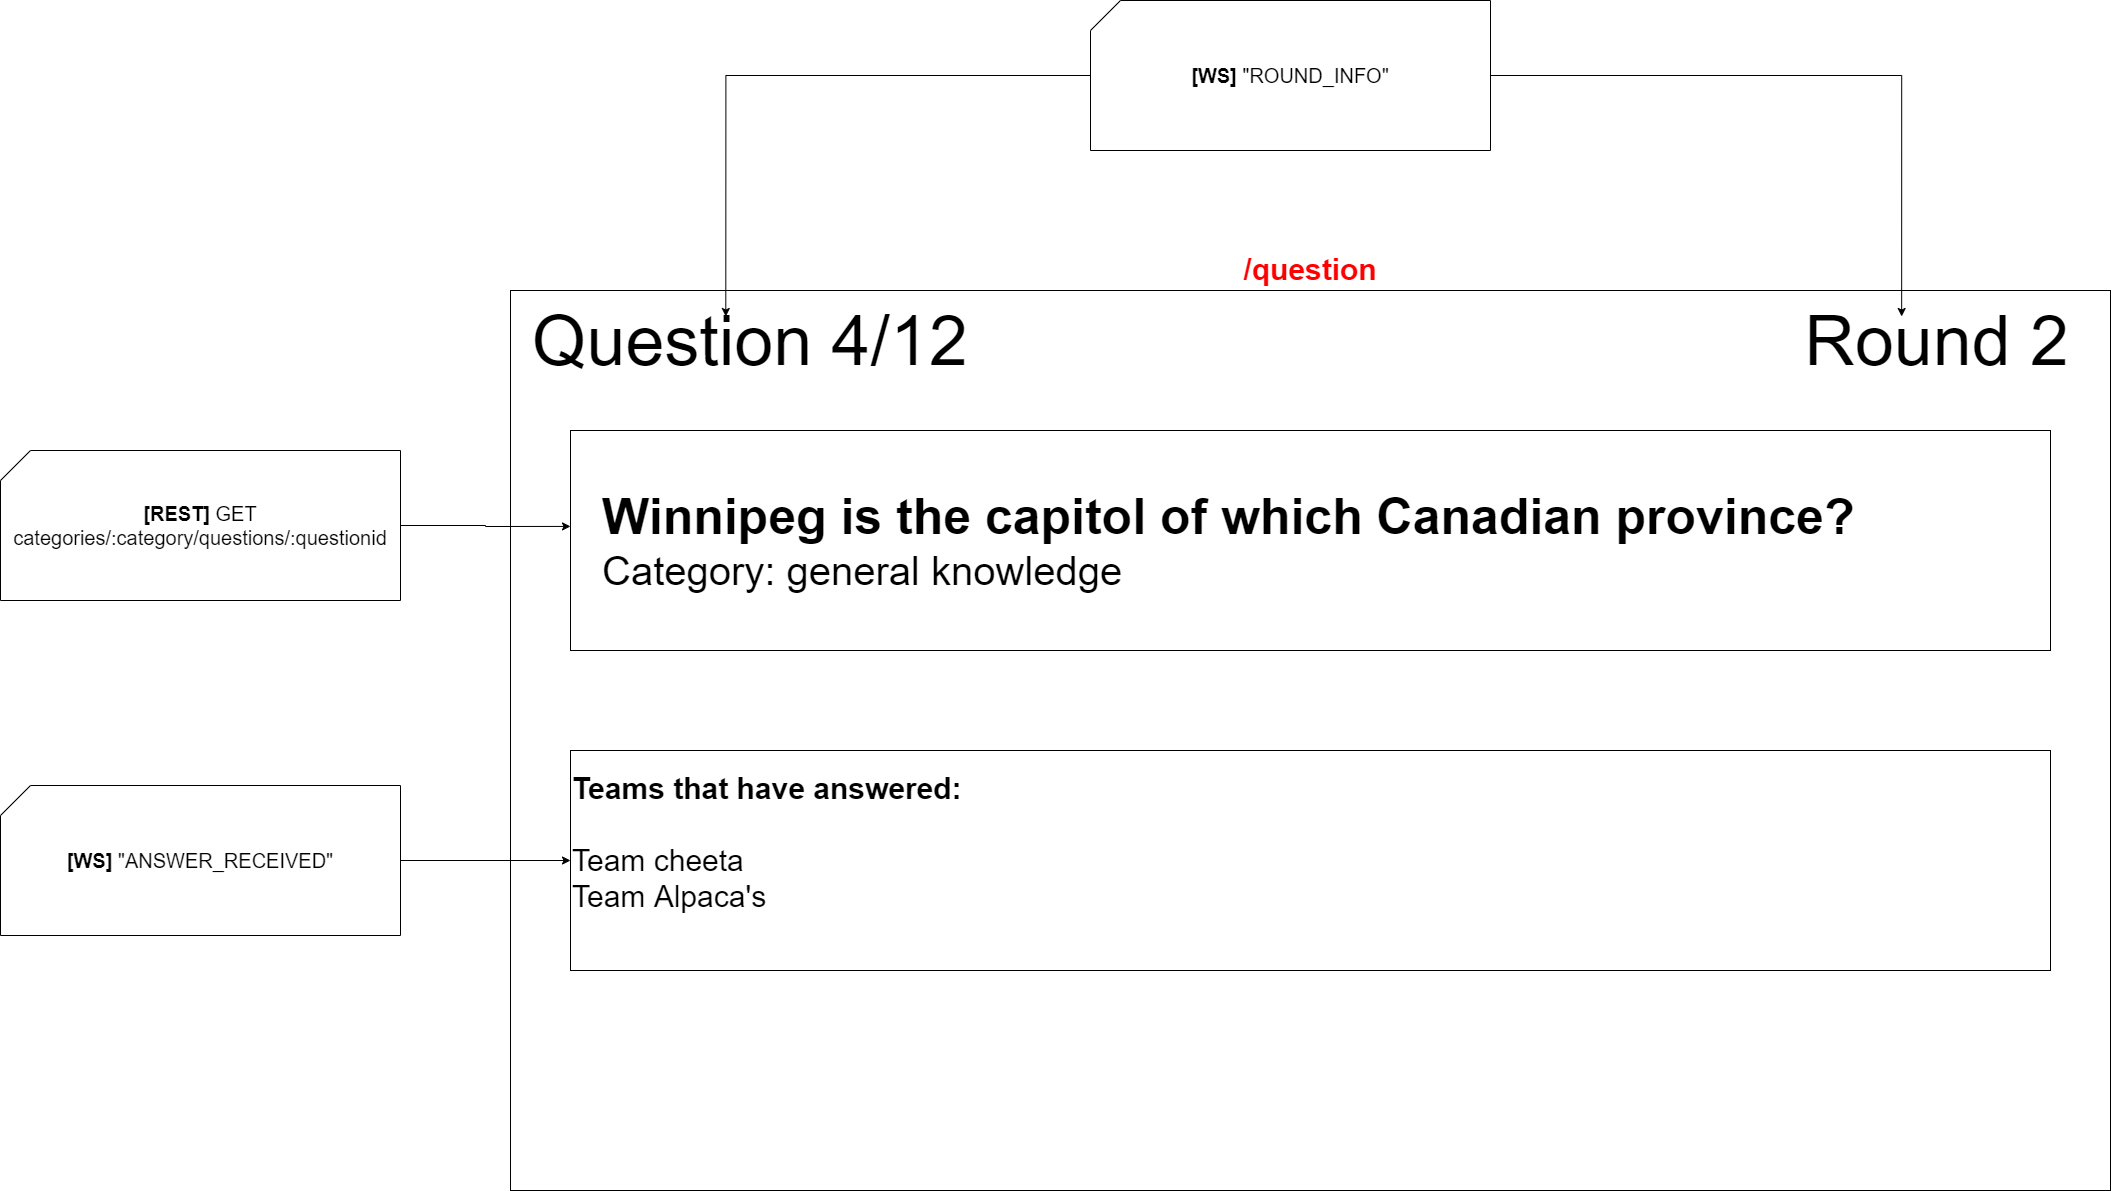
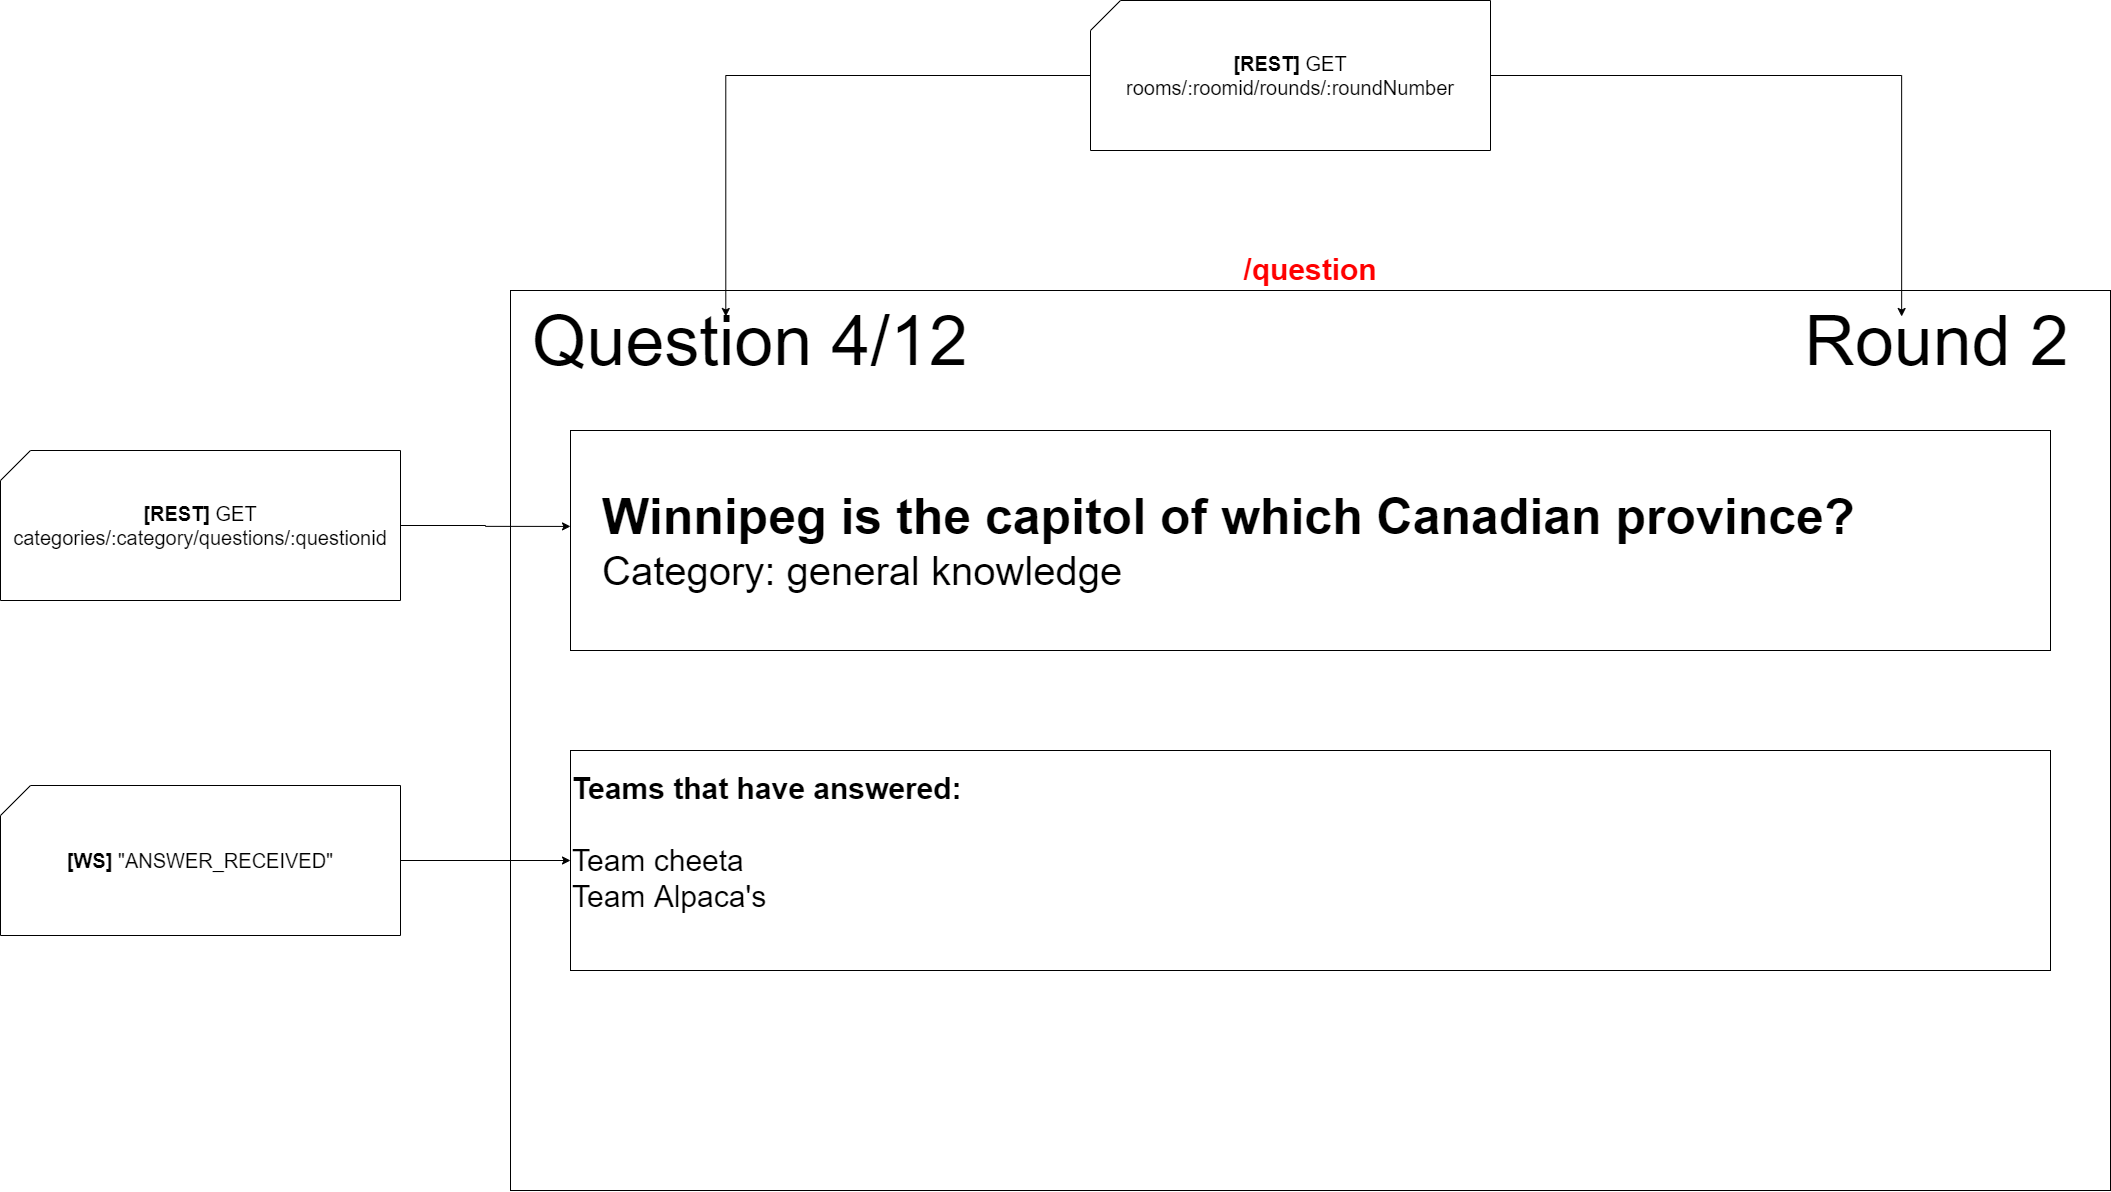
Update WS round_info to REST-api request

diff --git a/docs/rest-api.md b/docs/rest-api.md
@@ -1,11 +1,12 @@
 # REST API
 In this file you can see all the requests for the quizzer-server.
 
+- [Rounds](#rounds)
 - [Questions](#questions)
 - [Teams](#teams)
 
-## Rooms
 
+### Rounds
 ---
 
 **`POST`** `/api/v1/rooms`
@@ -15,38 +16,6 @@ Create a new room.
 | Parameters    | Return  as JSON           |
 |---------------|---------------------------|
 | None          | ``roomid: String``       |
-
----
-
-**`PUT`** `/api/v1/rooms/:roomid/teams/:teamid`
-
-Approve a new team, setting ``isApproved`` Boolean to true.
-
-| Parameters    | Return as JSON            |
-|---------------|---------------------------|
-| ``roomid``    | None                      |
-| ``teamid``    | None                      |
-
----
-
-**`DELETE`** `/api/v1/rooms/:roomid/teams/:teamid`
-
-Disapprove a team, setting ``isApproved`` Boolean to false.
-
-| Parameters    | Return as JSON            |
-|---------------|---------------------------|
-| ``roomid``    |                           |
-| ``teamid``    |                           |
-
----
-
-**`GET`** `/api/v1/categories`
-
-Get all categories.
-
-| Parameters    | Return as JSON            |
-|---------------|---------------------------|
-| None          | ``{ categories }``        |
 
 ---
 
@@ -60,6 +29,42 @@ Create a new round with the 3 selected categories.
 
 ---
 
+**`POST`** `/api/v1/rooms/:roomid/rounds/:roundNumber/"`
+
+Add a new question to a round.
+
+| Parameters    | Send in body              | Return as JSON            |
+|---------------|---------------------------|---------------------------|
+| roomid        | ``questionid: Number``    |                           |
+| roundNumber   |                           |                           |
+
+
+**`GET`** `/api/v1/rooms/:roomid/rounds/:roundNumber"`
+
+Get all info for a round, including how many questions are left, which round they are in and how many teams there are.
+
+| Parameters    | Send in body              | Return as JSON            |
+|---------------|---------------------------|---------------------------|
+| roomid        |                           | ``question: Number``      |
+| roundNumber   |                           | ``round: Number``         |
+|               |                           | ``teams: Number``         |
+
+---
+
+## Questions
+
+---
+
+**`GET`** `/api/v1/categories`
+
+Get all categories.
+
+| Parameters    | Return as JSON            |
+|---------------|---------------------------|
+| None          | ``{ categories }``        |
+
+---
+
 **`GET`** `/api/v1/categories/:category/questions/:questionid"`
 
 Get a question and answer.
@@ -69,16 +74,9 @@ Get a question and answer.
 | category      |                           | ``question: String``      |
 | questionid    |                           | ``answer: String``        |
 
----
+--- 
 
-**`POST`** `/api/v1/rooms/:roomid/rounds/:roundNumber/"`
-
-Add a new question to a round.
-
-| Parameters    | Send in body              | Return as JSON            |
-|---------------|---------------------------|---------------------------|
-| roomid        | ``questionid: Number``    |                           |
-| roundNumber   |                           |                           |
+## Teams
 
 ---
 
@@ -134,5 +132,28 @@ Create a new (unapproved) team
 | Parameters    | Send in body              | Return as JSON                  |
 |---------------|---------------------------|---------------------------------|
 | roomid        | ``teamName: String``      |                                 |
+
+---
+
+
+**`PUT`** `/api/v1/rooms/:roomid/teams/:teamid`
+
+Approve a new team, setting ``isApproved`` Boolean to true.
+
+| Parameters    | Return as JSON            |
+|---------------|---------------------------|
+| ``roomid``    | None                      |
+| ``teamid``    | None                      |
+
+---
+
+**`DELETE`** `/api/v1/rooms/:roomid/teams/:teamid`
+
+Disapprove a team, setting ``isApproved`` Boolean to false.
+
+| Parameters    | Return as JSON            |
+|---------------|---------------------------|
+| ``roomid``    |                           |
+| ``teamid``    |                           |
 
 ---

diff --git a/docs/ws-specification.md b/docs/ws-specification.md
@@ -1,4 +1,5 @@
 # WebSocket specification
+These are all the different messagetypes websockets can send.
 
 | When                  | From      | To        | Messagetype           | 
 |-----------------------|-----------|-----------|-----------------------|
@@ -10,6 +11,5 @@
 | Quiz ends             | Quizmaster| Server    | ``QUIZ_ENDED``        | 
 | Scoreboard connects   | Scoreboard| Server    | ``SCOREBOARD_JOIN``   |
 | Waiting is over       | Server    | Scoreboard| ``PENDING_DONE``      |
-| Question is started   | Server    | Scoreboard| ``ROUND_INFO``        |
 | Team joins            | Team      | Server    | ``TEAM_JOIN``         |
 | Team submits answer   | Team      | Server    | ``NEW_TEAM_ANSWER``   |
